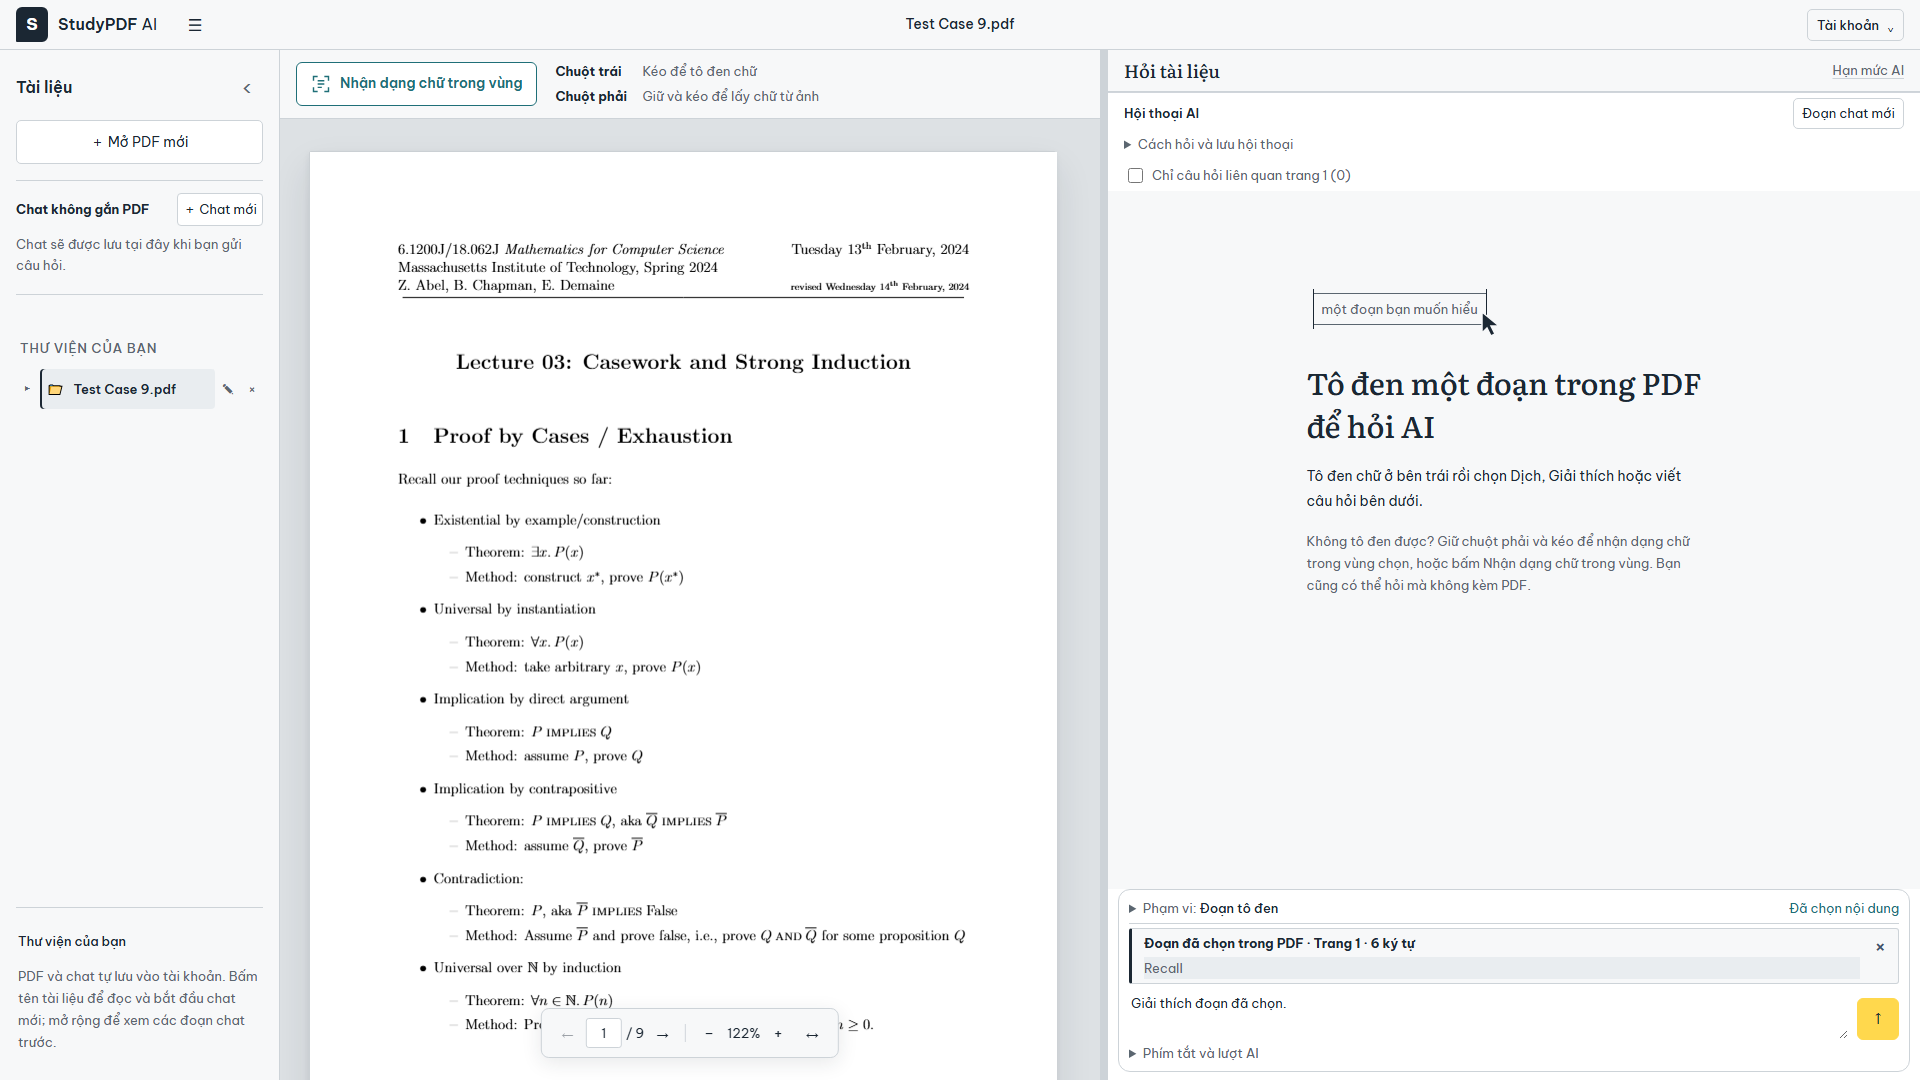
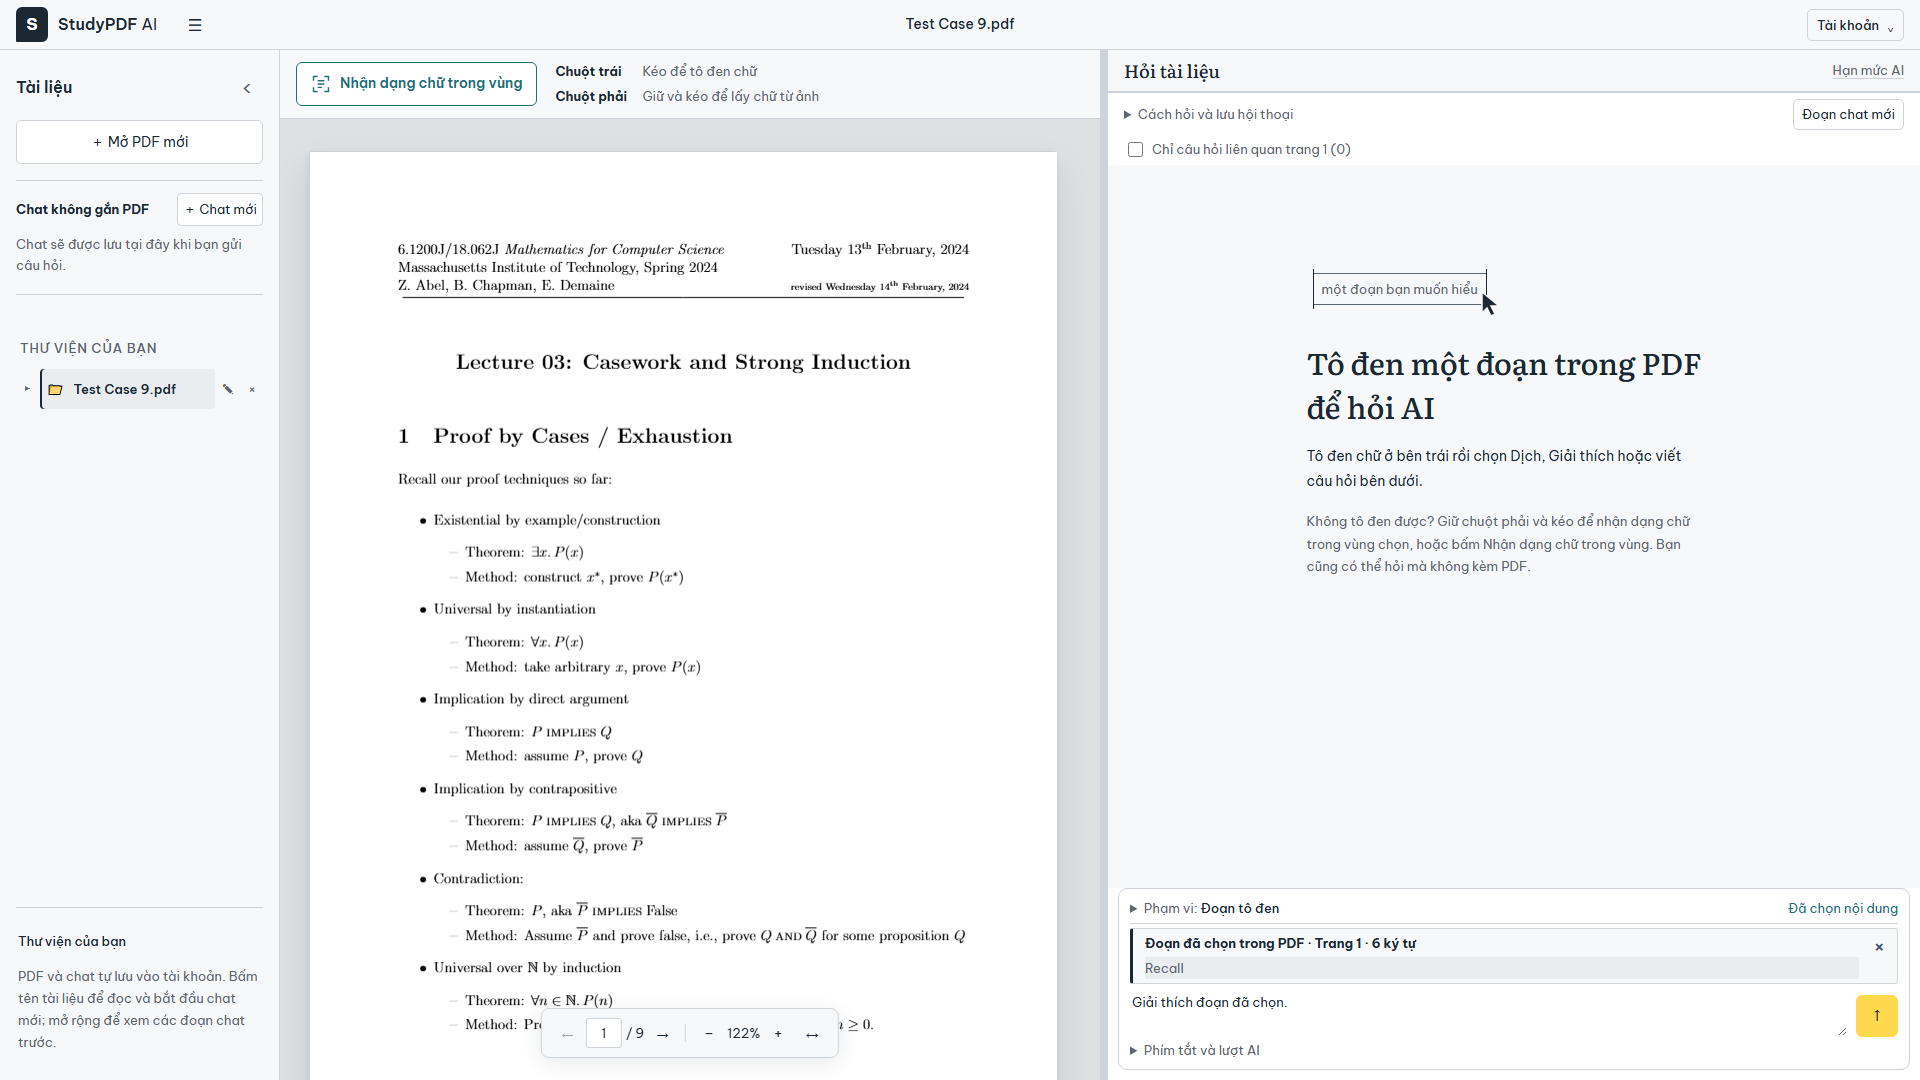
ui: align user questions right and simplify conversation layout

diff --git a/src/index.css b/src/index.css
@@ -840,3 +840,32 @@ button:disabled {cursor:default;}
  .chat-page-filter {padding-inline:12px;}
  .reader-usage-details[open] {flex-basis:100%;margin-left:0;}
 }
+
+/* Conversation layout: preserve the existing palette and surfaces. */
+.split-ai .chat-header {position:relative;grid-template-columns:minmax(0,1fr) auto;align-items:center;padding:6px 16px;}
+.split-ai .chat-header > strong {position:absolute;width:1px;height:1px;margin:-1px;overflow:hidden;clip-path:inset(50%);white-space:nowrap;}
+.split-ai .chat-header > .chat-help {grid-column:1;grid-row:1;min-width:0;}
+.split-ai .chat-header > .chat-help[open] {grid-column:1 / -1;grid-row:2;}
+.split-ai .chat-header > button {grid-column:2;grid-row:1;}
+.split-ai .chat-messages {padding:18px 20px;}
+.chat-turn {display:flex;flex-direction:column;gap:18px;margin-bottom:28px;}
+.split-ai .chat-user {align-self:flex-end;width:fit-content;max-width:85%;margin-left:32px;padding:10px 12px;border-radius:10px 10px 3px 10px;}
+.chat-user > strong {position:absolute;width:1px;height:1px;margin:-1px;overflow:hidden;clip-path:inset(50%);white-space:nowrap;}
+.chat-user > p {margin:0;line-height:1.65;}
+.chat-user details {margin-top:7px;}
+.chat-user blockquote {margin-top:6px;max-height:104px;}
+.chat-assistant {align-self:flex-start;width:100%;max-width:680px;min-width:0;padding:0 4px 0 0;}
+.chat-assistant > strong {display:block;margin-bottom:7px;font-size:13px;}
+.ai-answer {font-size:13px;line-height:1.75;}
+.ai-answer p {margin:9px 0;}
+.ai-markdown :is(ul,ol) {margin-block:9px;}
+.ai-markdown li + li {margin-top:4px;}
+.split-ai .chat-composer {margin:0 10px 10px;padding:8px 11px;border-radius:9px;}
+.split-ai .chat-input-row textarea {min-height:44px;max-height:110px;line-height:1.6;}
+@media(max-width:860px){
+ .split-ai .chat-header {padding-inline:12px;}
+ .split-ai .chat-messages {padding:14px 12px;}
+ .split-ai .chat-user {max-width:92%;margin-left:20px;}
+ .chat-turn {gap:16px;margin-bottom:23px;}
+ .split-ai .chat-composer {margin:0 8px 8px;}
+}
